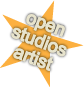
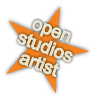
modified violator slightly put in forward/reverse sort for artists list for admin view
looking towards the update page

diff --git a/app/views/artists/admin_index.html b/app/views/artists/admin_index.html
@@ -14,6 +14,18 @@ no reason for this to be very pretty
 </div>
 <% end -%>
 
+<div>Sort By:
+  <% ['studio_id','lastname','firstname','id','login'].each do |s| %>
+  <a href="?sortby=<%= s %>"><%= s %></a>
+  <% end %>
+  <br/>
+  Reverse Sort By:
+  <% ['studio_id','lastname','firstname','id','login'].each do |s| %>
+  <a href="?rsortby=<%= s %>"><%= s %></a>
+  <% end %>
+  <br/>
+</div>
+
 <%= form_tag admin_update_artists_path %>
 <input style="float:right" type="submit" value="update os status"/>
 <table>
@@ -46,8 +58,13 @@ no reason for this to be very pretty
     </td>
     <td><%=h a.street %></td>
     <td><%=h a.os2010 %></td>
-    <td><input type="checkbox"  <%= "checked" if a.os2010 %> name="os_<%= a.id %>" /></td>
-    
+    <% checked = (a.os2010 ? "checked=checked":"") -%>
+    <td>
+	<% form_for(a) do |f| -%>
+	<div><%= f.radio_button :os2010, "true" %>Yep</div>
+	<div><%= f.radio_button :os2010, "false" %>Nope</div>
+	<% end %>
+    </td>
  </tr>
 <% end %>
 </table>

diff --git a/public/stylesheets/mau.css b/public/stylesheets/mau.css
@@ -689,14 +689,14 @@ img#logo
 }
 
 .os-violator {
-    bottom: -30px;
+    bottom: -35px;
     position:absolute;  
-    right: -37px;
+    right: -42px;
     z-index:150;
 }
 .os-violator img {
-    width: 84px;
-    height: 87px;
+    width: 96px;
+    height: 100px;
 }
 
 .info-block {

diff --git a/app/controllers/artists_controller.rb b/app/controllers/artists_controller.rb
@@ -115,18 +115,34 @@ class ArtistsController < ApplicationController
   end
 
   def admin_index
-    @artists = Artist.find(:all)
+    sortby = "studio_id"
+    reverse = false
+    if params[:sortby]
+      if ['studio_id','lastname','firstname','id','login'].include? sortby
+        sortby = params[:sortby]
+        reverse = false
+      end
+    end
+    if params[:rsortby]
+      rsortby = params[:rsortby] || "studio_id"
+      if ['studio_id','lastname','firstname','id','login'].include? rsortby
+        sortby = rsortby
+        reverse = true
+      end
+    end
+    @artists = Artist.find(:all, :order => sortby)
+    if reverse
+      @artists = @artists.reverse()
+    end
   end
   
   def admin_update
-    p params
     begin
       updates = {}
       params.each do |k,v|
-        if k[0..2] == 'os_' and /^\d+$/.match(k[2..-1])
+        if k[0..2] == 'os_' and /^\d+$/.match(k[3..-1])
           # we've got all numbers
-          artistid = k[2..-1]
-          os = v
+          artistid = k[3..-1]
           updates[artistid] = v
         end
       end
